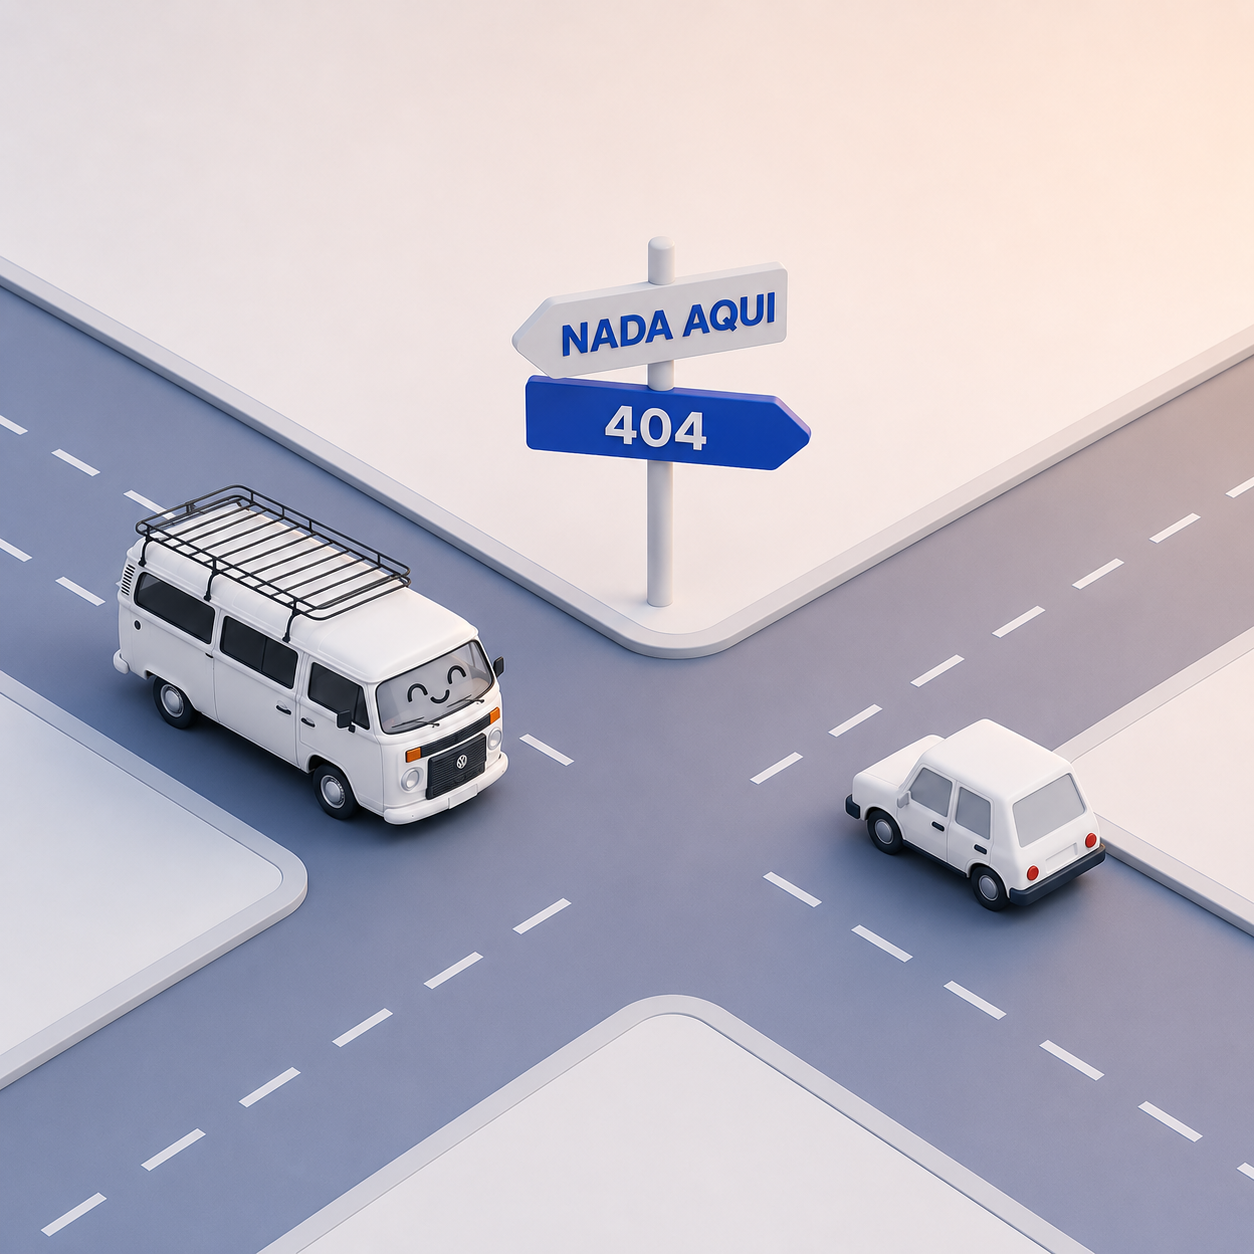
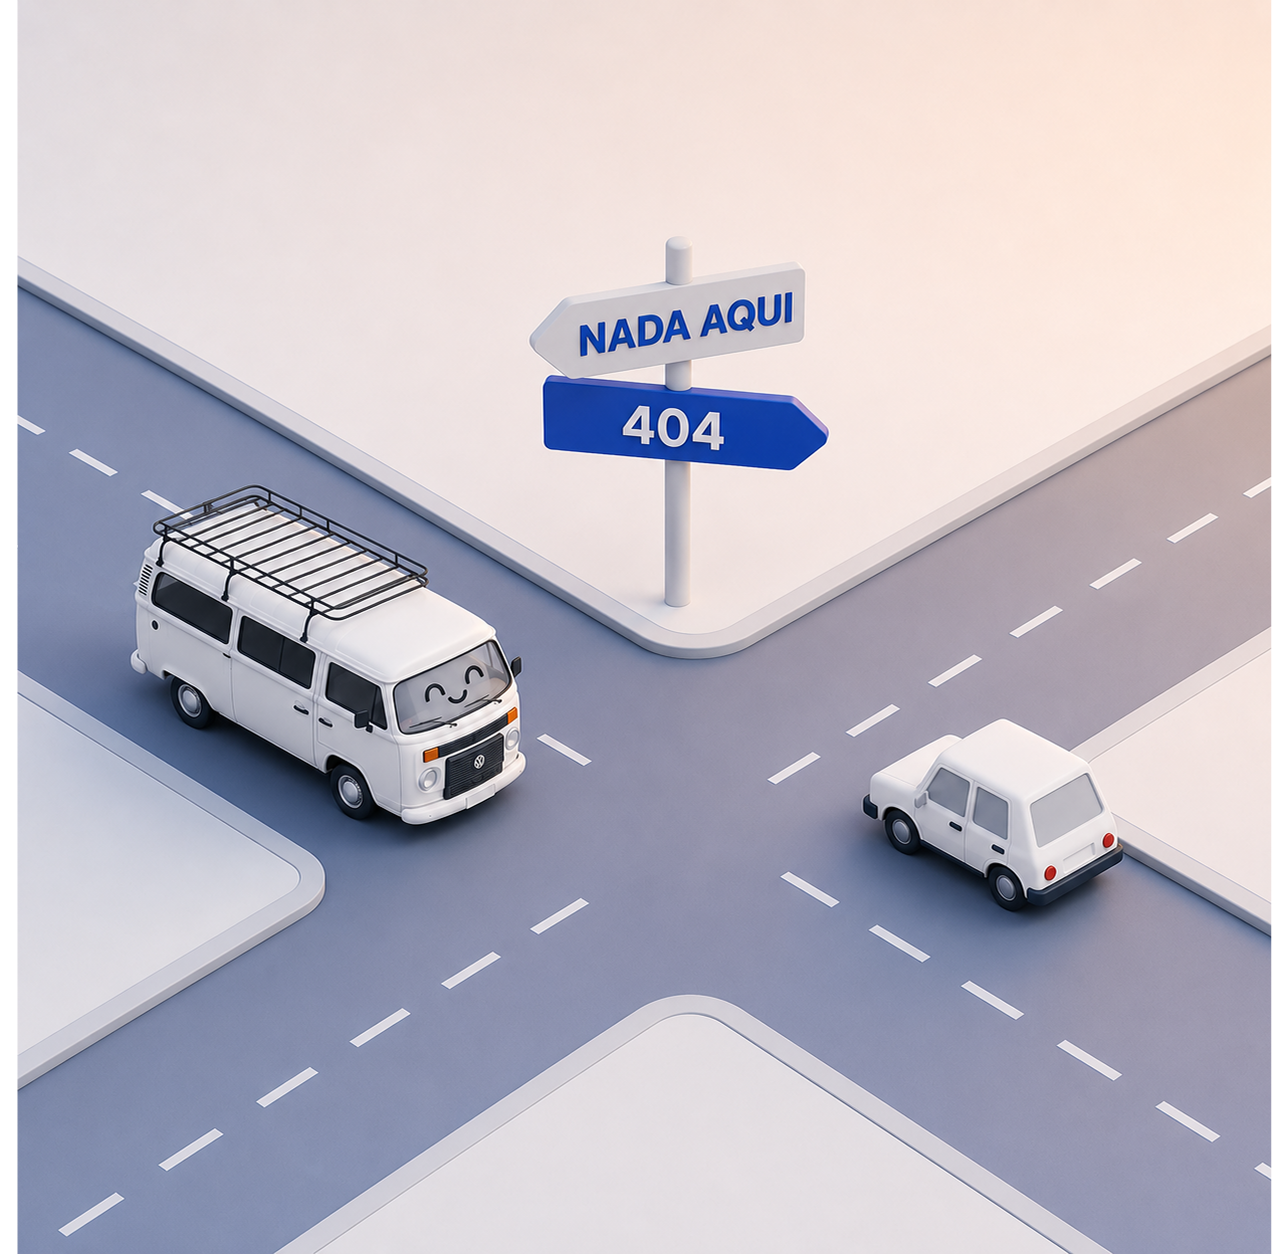
feat: adição do sistema de filtro de trips

diff --git a/src/pages/Home/sections/UpcomingTrips/index.jsx b/src/pages/Home/sections/UpcomingTrips/index.jsx
@@ -1,27 +1,57 @@
+// UpcomingTrips.jsx
 import { tripsData } from "../../../../data/trips";
 import UpcomingTripCard from "./UpcomingTripCard";
 import styles from "./upcomingTrips.module.css";
 
-export default function UpcomingTrips() {
+export default function UpcomingTrips({ filterType, origin, destination }) {
+  const filteredTrips = tripsData.filter((trip) => {
+    const matchesOrigin = trip.origin
+      ? trip.origin.toLowerCase().includes(origin.toLowerCase().trim())
+      : true;
+
+    const matchesDestination = trip.destination
+      ? trip.destination
+          .toLowerCase()
+          .includes(destination.toLowerCase().trim())
+      : true;
+
+    let matchesTab = true;
+
+    const todayStr = new Date().toISOString().split("T")[0];
+
+    if (filterType === "hoje") {
+      matchesTab = trip.date === todayStr;
+    } else if (filterType === "proximas") {
+      matchesTab = trip.date > todayStr;
+    }
+
+    return matchesOrigin && matchesDestination && matchesTab;
+  });
+
   return (
     <section className={styles.upcomingTrips}>
       <div className={styles.header}>
-        <p>Próximas Viagens</p>
+        <p>{filterType === "hoje" ? "Viagens de Hoje" : "Próximas Viagens"}</p>
 
-        <span>Ver todas</span>
       </div>
 
-      {tripsData.map((trip) => (
-        <UpcomingTripCard
-          key={trip.id}
-          tripId={trip.id}
-          category={trip.category}
-          route={trip.route}
-          price={trip.price}
-          departure={trip.departure}
-          seatsRemaining={trip.seatsRemaining}
-        />
-      ))}
+      {filteredTrips.length > 0 ? (
+        filteredTrips.map((trip) => (
+          <UpcomingTripCard
+            key={trip.id}
+            tripId={trip.id}
+            category={trip.category}
+            route={trip.route}
+            price={trip.price}
+            departure={trip.departure}
+            seatsRemaining={trip.seatsRemaining}
+          />
+        ))
+      ) : (
+        <p className={styles.noResults}>
+          Nenhuma viagem encontrada para essa rota.
+        </p>
+      )}
     </section>
   );
 }

diff --git a/src/pages/Tracking/TripDetailsSheet/index.jsx b/src/pages/Tracking/TripDetailsSheet/index.jsx
@@ -5,11 +5,10 @@ const currentTrip = {
   statusText: "Indo para Campinas",
   dropoffPoint: "Ponto de desembarque: Terminal Multimodal",
   driver: {
-    name: "Ricardo Oliveira",
     avatar:
       "https://images.unsplash.com/photo-1534528741775-53994a69daeb?w=100&auto=format&fit=crop&q=80", // Substitua pelo caminho correto da imagem
-    rating: "4.9",
-    vehicleModel: "Van Branca",
+
+    vehicleModel: "Kombi Branca",
     licensePlate: "PAB-2024",
   },
 };
@@ -38,9 +37,9 @@ export default function TripDetailsSheet() {
 
         <div className={styles.driverInfo}>
           <div className={styles.driverHeader}>
-            <h3 className={styles.driverName}>{currentTrip.driver.name}</h3>
+            <h3 className={styles.driverName}>Paulo Aguiar</h3>
             <div className={styles.ratingBadge}>
-              <span>{currentTrip.driver.rating}</span>
+              <span>5.0</span>
               <Star className={styles.starIcon} fill="currentColor" />
             </div>
           </div>
@@ -55,7 +54,7 @@ export default function TripDetailsSheet() {
       <div className={styles.actionsGroup}>
         <button className={styles.primaryActionButton}>
           <Phone />
-          Ligar para Ricardo
+          Falar com Paulo
         </button>
 
         <button className={styles.secondaryActionButton}>

diff --git a/src/pages/Home/sections/TripSelector/index.jsx b/src/pages/Home/sections/TripSelector/index.jsx
@@ -1,25 +1,38 @@
 import { Locate, MapPin, Search } from "lucide-react";
 import styles from "./tripSelector.module.css";
 
-export default function TripSelector() {
+// TripSelector.jsx
+export default function TripSelector({
+  origin,
+  setOrigin,
+  destination,
+  setDestination,
+}) {
   return (
     <section className={styles.tripSelector}>
       <div className={styles.tripSelectorContainer}>
         <div className={styles.tripSelectorLocate}>
           <Locate className={styles.iconStart} size={20} />
-
-          <input type="text" placeholder="De onde você sai?" />
+          <input
+            type="text"
+            placeholder="De onde você sai?"
+            value={origin}
+            onChange={(e) => setOrigin(e.target.value)}
+          />
         </div>
 
         <div className={styles.tripSelectorLocate}>
           <MapPin className={styles.iconEnd} size={20} />
-
-          <input type="text" placeholder="Para onde quer ir?" />
+          <input
+            type="text"
+            placeholder="Para onde quer ir?"
+            value={destination}
+            onChange={(e) => setDestination(e.target.value)}
+          />
         </div>
 
         <button className={styles.button}>
           <Search size={20} />
-
           <span>Buscar Viagens</span>
         </button>
       </div>

diff --git a/src/pages/Home/sections/QuickFilters/index.jsx b/src/pages/Home/sections/QuickFilters/index.jsx
@@ -11,11 +11,10 @@ const Filters = {
   HORARIOS: "horarios",
 };
 
-export default function QuickFilters() {
+export default function QuickFilters({ origin, destination }) {
   const [activeFilters, setActiveFilters] = useState(Filters.HOJE);
-
   return (
-    <section>
+    <section className={styles.quickFilters}>
       <div className={styles.filterList} role="filterlist">
         <button
           role="tab"
@@ -49,11 +48,25 @@ export default function QuickFilters() {
       </div>
 
       <div className={styles.tabContent}>
-        {activeFilters === Filters.HOJE && <UpcomingTrips />}
+        {activeFilters === Filters.HOJE && (
+          <UpcomingTrips
+            filterType="hoje"
+            origin={origin}
+            destination={destination}
+          />
+        )}
 
-        {activeFilters === Filters.PROXIMAS && <UpcomingTrips />}
+        {activeFilters === Filters.PROXIMAS && (
+          <UpcomingTrips
+            filterType="proximas"
+            origin={origin}
+            destination={destination}
+          />
+        )}
 
-        {activeFilters === Filters.HORARIOS && <TimeTravels />}
+        {activeFilters === Filters.HORARIOS && (
+          <TimeTravels origin={origin} destination={destination} />
+        )}
       </div>
     </section>
   );

diff --git a/src/pages/Home/index.jsx b/src/pages/Home/index.jsx
@@ -4,14 +4,26 @@ import Header from "../../components/ui/Header";
 import WelcomeSection from "./sections/WelcomeSection";
 import TripSelector from "./sections/TripSelector";
 import QuickFilters from "./sections/QuickFilters";
+import { useState } from "react";
 
 export default function Home() {
+  const [origin, setOrigin] = useState("");
+  const [destination, setDestination] = useState("");
+  
   return (
     <section className={styles.home}>
       <Header />
       <WelcomeSection />
-      <TripSelector />
-      <QuickFilters />
+      <div>
+        <TripSelector
+          origin={origin}
+          setOrigin={setOrigin}
+          destination={destination}
+          setDestination={setDestination}
+        />
+
+        <QuickFilters origin={origin} destination={destination} />
+      </div>
     </section>
   );
 }

diff --git a/src/pages/Home/sections/UpcomingTrips/upcomingTrips.module.css b/src/pages/Home/sections/UpcomingTrips/upcomingTrips.module.css
@@ -1,23 +1,17 @@
 .upcomingTrips {
-  padding: 16px;
-}
-
-.header {
-  display: flex;
-  justify-content: space-between;
-}
-
-.upcomingTrips {
-  width: 100%;
-
   display: flex;
   flex-direction: column;
+  padding: 16px;
+  margin-bottom: 30px;
+  width: 100%;
+
   gap: 1rem;
 }
 
 .header {
   display: flex;
   align-items: center;
+
   justify-content: space-between;
 }
 
@@ -26,12 +20,3 @@
   font-weight: 700;
   color: #111827;
 }
-
-.header span {
-  font-size: 0.9rem;
-  font-weight: 500;
-  color: #0057d9;
-
-  cursor: pointer;
-}
-

diff --git a/src/data/trips.js b/src/data/trips.js
@@ -101,7 +101,7 @@ export const tripsData = [
     origin: "Recife",
     destination: "João Pessoa",
 
-    date: "2026-10-17",
+    date: "2026-05-28",
     departure: "08:15",
     arrival: "10:40",
     duration: "2h 25min",

diff --git a/src/pages/Home/sections/QuickFilters/quickFilters.module.css b/src/pages/Home/sections/QuickFilters/quickFilters.module.css
@@ -1,3 +1,7 @@
+.quickFilters{
+  margin-bottom: 20px;
+}
+
 .quickFilters::-webkit-scrollbar {
   height: 6px;
 }
